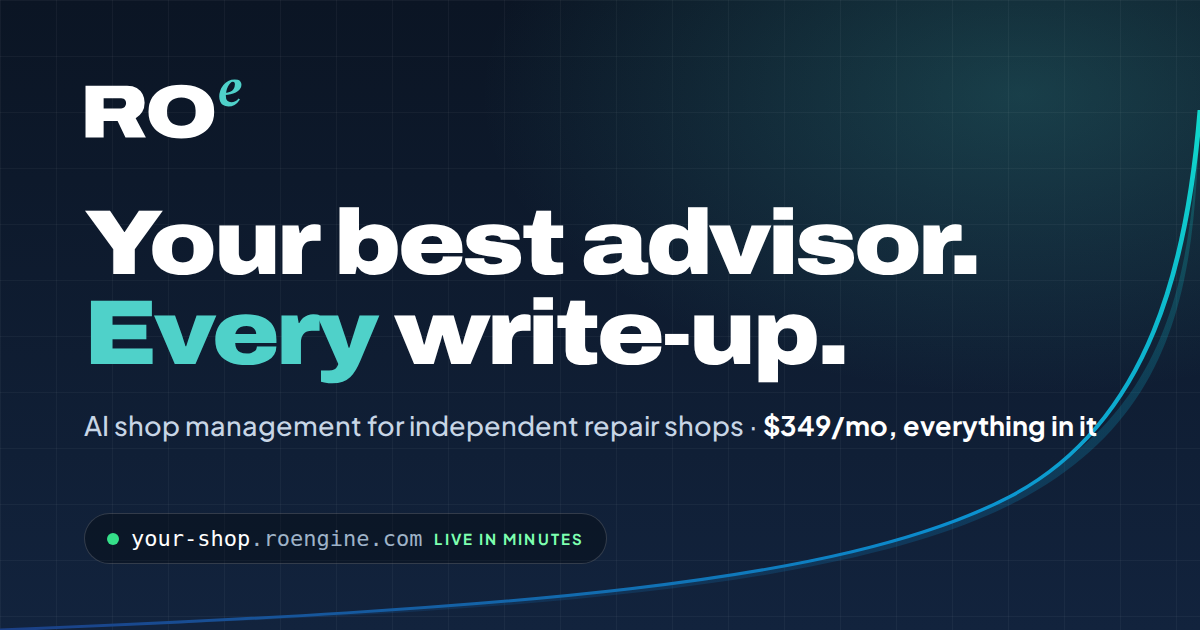
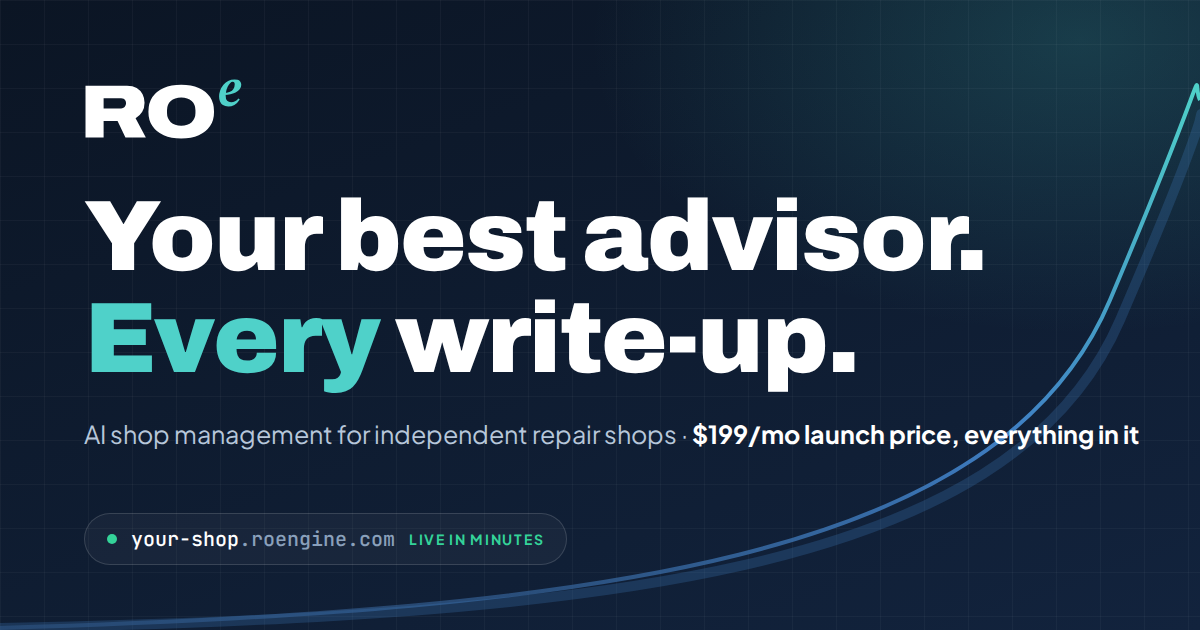
Launch price: $199/month locked in (regular $349), no card needed to start
Replaces the founding 25%-off / July 1, 2027 copy on the homepage, compare, card-fees, llms.txt and JSON-LD;
the compare table now reads $199 launch price. Card-required lines updated for the card-free signup; privacy
notes the optional welcome-page answers. New link-preview image (source in ops/og-image.html, not deployed),
og:image cache-busted with ?v=2.

Changed region(s): [[0.0617, 0.3016, 0.8325, 0.6333], [0.0, 0.1206, 1.0, 1.0], [0.0925, 0.8143, 0.4933, 0.9048]]

diff --git a/index.html b/index.html
@@ -38,22 +38,22 @@
 </script>
 <meta name="viewport" content="width=device-width, initial-scale=1">
 <title>RO Engine — AI Shop Management Software for Independent Auto Repair Shops</title>
-<meta name="description" content="The estimate that explains itself. RO Engine writes the maintenance on every car and explains each service to your customer — what it is, why it's due now, and what happens if they wait. Shop management for independent repair shops: $349/month, everything included, 90 days free.">
+<meta name="description" content="The estimate that explains itself. RO Engine writes the maintenance on every car and explains each service to your customer — what it is, why it's due now, and what happens if they wait. Shop management for independent repair shops: $199/month launch price, everything included, 90 days free.">
 <link rel="canonical" href="https://roengine.com/">
 <meta name="theme-color" content="#0b1524">
 <meta property="og:type" content="website">
 <meta property="og:site_name" content="RO Engine">
 <meta property="og:url" content="https://roengine.com/">
 <meta property="og:title" content="RO Engine — The estimate that explains itself.">
-<meta property="og:description" content="AI shop management for independent auto repair. Veteran-level recommendations on every RO, AI phone answering, texting and estimate approval — $349/month, everything included. Your own shop, live in minutes.">
-<meta property="og:image" content="https://roengine.com/assets/brand/og-image.png">
+<meta property="og:description" content="AI shop management for independent auto repair. Veteran-level recommendations on every RO, AI phone answering, texting and estimate approval — $199/month launch price, everything included. Your own shop, live in minutes.">
+<meta property="og:image" content="https://roengine.com/assets/brand/og-image.png?v=2">
 <meta property="og:image:width" content="1200">
 <meta property="og:image:height" content="630">
 <meta property="og:image:alt" content="RO Engine — The estimate that explains itself.">
 <meta name="twitter:card" content="summary_large_image">
 <meta name="twitter:title" content="RO Engine — The estimate that explains itself.">
-<meta name="twitter:description" content="AI shop management for independent auto repair. Your own shop, live in minutes. $349/month, everything included.">
-<meta name="twitter:image" content="https://roengine.com/assets/brand/og-image.png">
+<meta name="twitter:description" content="AI shop management for independent auto repair. Your own shop, live in minutes. $199/month launch price, everything included.">
+<meta name="twitter:image" content="https://roengine.com/assets/brand/og-image.png?v=2">
 <link rel="alternate" type="text/plain" title="LLM summary" href="https://roengine.com/llms.txt">
 <link rel="icon" href="/assets/brand/roe-icon.svg" type="image/svg+xml">
 <link rel="apple-touch-icon" href="/assets/brand/roe-icon-180.png">
@@ -680,7 +680,7 @@ src="https://www.facebook.com/tr?id=1693754829035693&ev=PageView&noscript=1"
 
 <div class="strip on-dark">
   <div class="wrap">
-    <div class="s rv"><b data-count="349" data-prefix="$">$349</b><span>a month, everything in it</span></div>
+    <div class="s rv"><b data-count="199" data-prefix="$">$199</b><span>a month at launch, everything in it</span></div>
     <div class="s rv"><b data-count="54823">54,823</b><span>OEM service intervals</span></div>
     <div class="s rv"><b data-count="17200">17,200</b><span>AutoHouse repair orders moved off Shop-Ware, back to 2013</span></div>
     <div class="s rv"><b data-count="90">90</b><span>days free to try it</span></div>
@@ -801,7 +801,7 @@ src="https://www.facebook.com/tr?id=1693754829035693&ev=PageView&noscript=1"
   <div class="wrap">
     <h2 class="rv">Two shops run on it today. Both are mine.</h2>
     <p class="lead rv">AutoHouse Automotive in Northwest Arkansas and AutoHouse Chicago in Wood Dale, Illinois.</p>
-    <p class="lead rv">Founding shops pay <b class="big">$261.75 a month, locked for life</b>, if they join before July 1, 2027. Tell me what's broken and I'll fix it.</p>
+    <p class="lead rv">The launch price is <b class="big">$199 a month, locked in for as long as you stay</b>. Tell me what's broken and I'll fix it.</p>
     <p class="small rv"><a href="#demo" style="color:var(--teal);font-weight:700">Questions first? Ask me directly.</a></p>
     <!-- [JOE: optional reference ask, e.g. "If it earns it, let another shop owner call you." Joe to decide before adding.] -->
     <!-- [TESTIMONIAL: first outside founding shop. Name, shop, city, make focus.] -->
@@ -816,8 +816,8 @@ src="https://www.facebook.com/tr?id=1693754829035693&ev=PageView&noscript=1"
     <p class="lead rv" style="color:#b7c7da;margin-top:16px">No tiers to upgrade into. No per-user fees. No add-on for the phone to answer itself.</p>
     <div class="price-grid">
       <div class="pc rv">
-        <div class="amt"><b>$349</b><span>per month<br>unlimited users · month to month</span></div>
-        <div class="fnd"><b>Founding rate:</b> <b>$261.75 a month</b>, locked for life, for shops that join before July 1, 2027.</div>
+        <div class="amt"><b>$199</b><span>per month<br>unlimited users · month to month</span></div>
+        <div class="fnd"><b>Launch price</b>, locked in for as long as you stay. Regular price $349 a month.</div>
         <ul>
           <li><svg><use href="#i-check"/></svg>AI service recommendations on every RO</li>
           <li><svg><use href="#i-check"/></svg>Mnemos, the AI assistant built on Claude</li>
@@ -835,7 +835,7 @@ src="https://www.facebook.com/tr?id=1693754829035693&ev=PageView&noscript=1"
       </div>
       <div class="promise">
         <div class="rv"><h3>The test drive is the real thing</h3><p>Your own shop at yourshop.roengine.com — not a sandbox. Everything you enter carries forward when you stay.</p></div>
-        <div class="rv"><h3>Nothing charges for 90 days</h3><p>Card or bank account on file to start. Cancel online in a few clicks — there's no one to call.</p></div>
+        <div class="rv"><h3>90 days free, no card</h3><p>No card needed to start. Add one before the trial ends if you're staying; cancel online in a few clicks — there's no one to call.</p></div>
         <div class="rv"><h3>We move your history over</h3><p>Customers, vehicles and repair history, migrated free. Coming off Shop-Ware? We've already done it — for ourselves. <a href="/shop-ware/" style="color:var(--teal-b);font-weight:700">See what comes over</a></p></div>
         <div class="rv"><h3>Leave whenever, with everything</h3><p>Export all your data anytime, from Settings, in a few clicks: customers, vehicles, every repair order and invoice, payments, inspections, messages and inventory as spreadsheets (CSV) or JSON, plus every photo, filed by repair order. No fee, no request, no one to call. It isn't tied to your bill, either: cancel, and you can still sign in and take it all. <a href="https://www.youtube.com/watch?v=KS_asJ9icJo" target="_blank" rel="noopener" style="color:var(--teal-b);font-weight:700;white-space:nowrap">Watch the whole export (1:03)</a></p></div>
         <div class="rv"><h3>No sales calls. Ever.</h3><p>If you want to talk, you ask — and the shop owner who built it answers.</p></div>
@@ -850,12 +850,12 @@ src="https://www.facebook.com/tr?id=1693754829035693&ev=PageView&noscript=1"
   <button class="cmpx" type="button" aria-label="Close the comparison" data-close-cmp>×</button>
     <div class="cmp">
       <h3 id="cmpTitle">Everything in one plan. Here&rsquo;s where it lives elsewhere.</h3>
-      <p class="sub2">Every row in our column comes with the $349 plan. On the others, the same things are spread across higher tiers and add-ons &mdash; straight from their own price lists.</p>
+      <p class="sub2">Every row in our column comes with the one plan. On the others, the same things are spread across higher tiers and add-ons &mdash; straight from their own price lists.</p>
       <div class="scroll">
         <table>
           <thead><tr><th scope="col"><span class="sr-only">Feature</span></th><th scope="col" class="us">RO Engine</th><th scope="col">Tekmetric</th><th scope="col">Shop-Ware</th><th scope="col">Shopmonkey</th><th scope="col">AutoLeap</th><th scope="col">Mitchell 1 SE</th></tr></thead>
           <tbody>
-          <tr><th scope="row">Price, monthly billing</th><td class="us plain">$349 &mdash; everything below</td><td>$199 entry plan</td><td>$279 entry plan</td><td>$239 entry plan</td><td>$199 entry plan</td><td class="x">Not published</td></tr>
+          <tr><th scope="row">Price, monthly billing</th><td class="us plain">$199 launch price &mdash; everything below</td><td>$199 entry plan</td><td>$279 entry plan</td><td>$239 entry plan</td><td>$199 entry plan</td><td class="x">Not published</td></tr>
           <tr><th scope="row">Try it first</th><td class="us">90 days free, in your own live shop</td><td>Demo and self-guided tour; no free trial</td><td>15-minute demo</td><td>Demo; trial terms not published</td><td>Demo only; no free trial</td><td>Free demo</td></tr>
           <tr><th scope="row">AI phone answering</th><td class="us">300 minutes a month</td><td class="x">Not offered</td><td class="x">Not listed</td><td class="x">Not listed</td><td>$99/mo add-on</td><td class="x">Not listed</td></tr>
           <tr><th scope="row">Two-way texting</th><td class="us">1,500 texts a month</td><td>Scale plan, $439</td><td class="y">Limited; unlimited on Pro, $389</td><td class="y">Included</td><td>Pro plan, $349</td><td>$39/mo add-on</td></tr>
@@ -883,7 +883,7 @@ src="https://www.facebook.com/tr?id=1693754829035693&ev=PageView&noscript=1"
       <div>
         <div class="rsteps" id="rsteps">
           <div class="rs rv" data-rs="0"><span class="num">1</span><div><h3>Pick your shop's address</h3><p>Choose your name and get your own <code>yourshop.roengine.com</code> — checked and reserved on the spot.</p></div></div>
-          <div class="rs rv" data-rs="1"><span class="num">2</span><div><h3>Start your 90 days</h3><p>Card or bank account on file. Nothing charges for 90 days, and you can cancel online in a few clicks.</p></div></div>
+          <div class="rs rv" data-rs="1"><span class="num">2</span><div><h3>Start your 90 days</h3><p>No card needed. Nothing charges for 90 days, and you can cancel online in a few clicks.</p></div></div>
           <div class="rs rv" data-rs="2"><span class="num">3</span><div><h3>Check your email — you're in</h3><p>"Your RO Engine shop is ready." Set your password and a short setup walks you through hours, labor rates, your team and payments. Skip anything you want.</p></div></div>
         </div>
         <ul class="realfacts rv">
@@ -934,7 +934,7 @@ src="https://www.facebook.com/tr?id=1693754829035693&ev=PageView&noscript=1"
 <section class="everything" id="features">
   <div class="wrap">
     <h2 class="rv">Everything else you'd expect.</h2>
-    <ul class="all rv" aria-label="Everything in the $349 plan">
+    <ul class="all rv" aria-label="Everything in the plan">
         <li>Estimates that explain themselves</li>
         <li>AI phone answering</li>
         <li>Two-way texting</li>
@@ -1088,12 +1088,12 @@ src="https://www.facebook.com/tr?id=1693754829035693&ev=PageView&noscript=1"
   <div class="wrap">
     <div class="cmp rv">
       <h3>Everything in one plan. Here&rsquo;s where it lives elsewhere.</h3>
-      <p class="sub2">Every row in our column comes with the $349 plan. On the others, the same things are spread across higher tiers and add-ons &mdash; straight from their own price lists.</p>
+      <p class="sub2">Every row in our column comes with the one plan. On the others, the same things are spread across higher tiers and add-ons &mdash; straight from their own price lists.</p>
       <div class="scroll">
         <table>
           <thead><tr><th scope="col"><span class="sr-only">Feature</span></th><th scope="col" class="us">RO Engine</th><th scope="col">Tekmetric</th><th scope="col">Shop-Ware</th><th scope="col">Shopmonkey</th><th scope="col">AutoLeap</th><th scope="col">Mitchell 1 SE</th></tr></thead>
           <tbody>
-          <tr><th scope="row">Price, monthly billing</th><td class="us plain">$349 &mdash; everything below</td><td>$199 entry plan</td><td>$279 entry plan</td><td>$239 entry plan</td><td>$199 entry plan</td><td class="x">Not published</td></tr>
+          <tr><th scope="row">Price, monthly billing</th><td class="us plain">$199 launch price &mdash; everything below</td><td>$199 entry plan</td><td>$279 entry plan</td><td>$239 entry plan</td><td>$199 entry plan</td><td class="x">Not published</td></tr>
           <tr><th scope="row">Try it first</th><td class="us">90 days free, in your own live shop</td><td>Demo and self-guided tour; no free trial</td><td>15-minute demo</td><td>Demo; trial terms not published</td><td>Demo only; no free trial</td><td>Free demo</td></tr>
           <tr><th scope="row">Factory maintenance schedules</th><td class="us">On every RO</td><td>Grow plan, $349</td><td class="y">Maintenance Builder</td><td class="x">Not clearly listed</td><td>Pro plan, $349</td><td class="x">Not listed</td></tr>
           <tr><th scope="row">AI phone answering</th><td class="us">300 minutes a month</td><td class="x">Not offered</td><td class="x">Not listed</td><td class="x">Not listed</td><td>$99/mo add-on</td><td class="x">Not listed</td></tr>
@@ -1330,9 +1330,9 @@ document.querySelectorAll('.vid .play').forEach((b) => b.addEventListener('click
      "applicationCategory":"BusinessApplication","applicationSubCategory":"Auto repair shop management software",
      "operatingSystem":"Web","publisher":{"@id":"https://roengine.com/#org"},
      "description":"AI shop management software for independent auto repair shops. Surfaces overdue and deferred maintenance on every repair order from 54,000+ OEM service intervals, with AI phone answering, two-way texting, digital estimate approval, parts ordering and inspections included.",
-     "offers":{"@type":"Offer","price":"349.00","priceCurrency":"USD","availability":"https://schema.org/InStock",
-       "priceSpecification":{"@type":"UnitPriceSpecification","price":"349.00","priceCurrency":"USD","unitText":"MONTH"},
-       "description":"One plan, everything included, unlimited users, month to month. 90-day free trial. Founding shops that join before July 1, 2027 pay $261.75/month for as long as they stay."}},
+     "offers":{"@type":"Offer","price":"199.00","priceCurrency":"USD","availability":"https://schema.org/InStock",
+       "priceSpecification":{"@type":"UnitPriceSpecification","price":"199.00","priceCurrency":"USD","unitText":"MONTH"},
+       "description":"One plan, everything included, unlimited users, month to month. 90-day free trial, no card needed. Launch price $199/month, locked in for as long as the shop stays; regular price $349/month."}},
     {"@type":"VideoObject","name":"The estimate that explains itself.","description":"The customer taps their car and reads what each service is, why it's due now, and what happens if they wait. The advisor reviews it first.","thumbnailUrl":"https://roengine.com/assets/video/estimate-explains.jpg",
      "uploadDate":"2026-10-16","duration":"PT47S","embedUrl":"https://www.youtube-nocookie.com/embed/QaQ2TSoMyiU","contentUrl":"https://www.youtube.com/watch?v=QaQ2TSoMyiU","publisher":{"@id":"https://roengine.com/#org"}},
     {"@type":"VideoObject","name":"Show them what you found.","description":"The tech marks the brake pads red, with the photo and the gauge reading. The customer sees exactly that on their phone and approves it.","thumbnailUrl":"https://roengine.com/assets/video/red-finding.jpg",

diff --git a/ops/og-image.html b/ops/og-image.html
@@ -1,0 +1,32 @@
+<!doctype html>
+<!-- Source for assets/brand/og-image.png (1200x630 link preview). Not deployed (ops/ is outside .cpanel.yml's copies
+     except lead-retention.php). Rebuild: render this file at 1200x630 with headless Chromium and screenshot it, e.g.
+     node -e "…page.setViewportSize({width:1200,height:630}); page.goto('file://…/ops/og-image.html'); page.screenshot(…)" -->
+<html><head><meta charset="utf-8">
+<link href="https://fonts.googleapis.com/css2?family=Archivo:wdth,wght@62..125,500..900&family=Plus+Jakarta+Sans:wght@400;500;600;700&family=JetBrains+Mono:wght@500&display=swap" rel="stylesheet">
+<style>
+html,body{margin:0;width:1200px;height:630px;overflow:hidden}
+body{position:relative;background:radial-gradient(700px 420px at 1080px 40px,rgba(63,181,174,.22),transparent 70%),linear-gradient(160deg,#0b1524 0%,#12233d 100%);font-family:'Plus Jakarta Sans',sans-serif;color:#fff}
+.grid{position:absolute;inset:0;background-image:linear-gradient(rgba(255,255,255,.035) 1px,transparent 1px),linear-gradient(90deg,rgba(255,255,255,.035) 1px,transparent 1px);background-size:44px 44px}
+.logo{position:absolute;left:84px;top:78px;height:62px}
+.logo svg{height:62px;width:auto}
+h1{position:absolute;left:84px;top:186px;margin:0;font-family:'Archivo',sans-serif;font-weight:900;font-size:100px;line-height:1.02;letter-spacing:-.02em}
+h1 .t{color:#4fd1c9}
+.sub{position:absolute;left:84px;top:418px;font-size:25px;color:#b7c7da}
+.sub b{color:#fff;font-weight:700}
+.pill{position:absolute;left:84px;top:513px;display:flex;align-items:center;gap:14px;padding:12px 22px;border:1px solid rgba(255,255,255,.14);border-radius:999px;background:rgba(255,255,255,.04);font-family:'JetBrains Mono',monospace;font-size:20px;color:#fff}
+.pill .dot{width:10px;height:10px;border-radius:50%;background:#34d399}
+.pill .d{color:#8aa0bb}
+.pill .live{font-family:'Plus Jakarta Sans';font-weight:700;font-size:14px;letter-spacing:.12em;color:#34d399}
+svg.curve{position:absolute;inset:0}
+</style></head><body>
+<div class="grid"></div>
+<svg class="curve" viewBox="0 0 1200 630" width="1200" height="630"><defs><linearGradient id="g" x1="0" y1="1" x2="1" y2="0"><stop offset="0" stop-color="#2d4d78" stop-opacity=".5"/><stop offset=".6" stop-color="#3f7fc4"/><stop offset="1" stop-color="#4fd1c9"/></linearGradient></defs>
+<path d="M0 628 C 600 610, 1000 560, 1110 300 S 1190 80, 1200 100" fill="none" stroke="url(#g)" stroke-width="4"/>
+<path d="M0 628 C 600 616, 1010 575, 1120 320 S 1195 110, 1200 130" fill="none" stroke="#3f7fc4" stroke-opacity=".25" stroke-width="10"/></svg>
+<div class="logo"><svg xmlns="http://www.w3.org/2000/svg" viewBox="54 145 2103 821" role="img" aria-label="RO Engine"><path fill="#ffffff" d="M74.0 934.0V246.0H623.795166015625Q700.795166015625 246.0 752.295166015625 277.719970703125Q803.795166015625 309.43994140625 829.795166015625 360.8798828125Q855.795166015625 412.31982421875 855.795166015625 471.759765625Q855.795166015625 539.919677734375 825.1551513671875 592.859619140625Q794.51513671875 645.799560546875 737.1953125 677.51953125L872.915283203125 934.0H602.59619140625L498.316162109375 714.51953125H313.71923828125V934.0ZM313.71923828125 548.56005859375H545.756103515625Q573.196044921875 548.56005859375 591.916015625 530.219970703125Q610.635986328125 511.8798828125 610.635986328125 480.039794921875Q610.635986328125 459.039794921875 601.916015625 444.1197509765625Q593.196044921875 429.19970703125 578.8360595703125 421.1396484375Q564.47607421875 413.07958984375 545.756103515625 413.07958984375H313.71923828125Z M1341.068269220645 946.0Q1207.4157932003875 946.0 1109.8475450376936 903.840087890625Q1012.279296875 861.68017578125 959.6396484375 782.18017578125Q907.0 702.68017578125 907.0 590.3405670545902Q907.0 477.039794921875 959.6396484375 397.31982421875Q1012.279296875 317.599853515625 1109.8475450376936 275.7999267578125Q1207.4157932003875 234.0 1341.068269220645 234.0Q1476.63671875 234.0 1573.6761474609375 275.7999267578125Q1670.715576171875 317.599853515625 1723.355224609375 397.31982421875Q1775.994873046875 477.039794921875 1775.994873046875 590.3405670545902Q1775.994873046875 702.68017578125 1723.355224609375 782.18017578125Q1670.715576171875 861.68017578125 1573.6761474609375 903.840087890625Q1476.63671875 946.0 1341.068269220645 946.0ZM1341.357421875 776.68017578125Q1385.277099609375 776.68017578125 1420.3367919921875 764.460205078125Q1455.396484375 752.240234375 1480.0162353515625 729.4403076171875Q1504.635986328125 706.640380859375 1517.23583984375 675.2804565429688Q1529.835693359375 643.9205322265625 1529.835693359375 606.880615234375V571.679443359375Q1529.835693359375 534.7858217840326 1517.23583984375 503.7127351107663Q1504.635986328125 472.6396484375 1480.0162353515625 450.19970703125Q1455.396484375 427.759765625 1420.3367919921875 415.539794921875Q1385.277099609375 403.31982421875 1341.357421875 403.31982421875Q1297.437744140625 403.31982421875 1262.3780517578125 415.539794921875Q1227.318359375 427.759765625 1202.838623046875 450.19970703125Q1178.35888671875 472.6396484375 1165.759033203125 503.7127351107663Q1153.1591796875 534.7858217840326 1153.1591796875 571.679443359375V606.880615234375Q1153.1591796875 643.9205322265625 1165.759033203125 675.2804565429688Q1178.35888671875 706.640380859375 1202.838623046875 729.4403076171875Q1227.318359375 752.240234375 1262.3780517578125 764.460205078125Q1297.437744140625 776.68017578125 1341.357421875 776.68017578125Z"/><path fill="#4fd1c9" d="M1964.97712890625 521.04423828125Q1920.82966796875 521.04423828125 1893.924326171875 503.13898437500006Q1867.018984375 485.23373046875 1854.8926269531248 455.52423828125006Q1842.76626953125 425.81474609375005 1842.76626953125 390.04203125000004Q1842.76626953125 348.88830078125 1856.863134765625 308.92830078125Q1870.96 268.96830078125004 1897.7137304687499 236.26516601562503Q1924.4674609375 203.56203125000002 1962.3433105468748 184.17889648437503Q2000.21916015625 164.79576171875004 2047.77712890625 164.79576171875004Q2067.25509765625 164.79576171875004 2087.62357421875 169.79788085937503Q2107.99205078125 174.8 2122.3162890625 189.7494921875Q2136.64052734375 204.698984375 2136.64052734375 234.59796875Q2136.64052734375 270.0674609375 2115.4384082031247 295.13483398437506Q2094.2362890625 320.20220703125005 2061.154169921875 336.04220703125003Q2028.07205078125 351.88220703125 1991.484677734375 359.934833984375Q1954.8973046875 367.98746093750003 1924.126796875 370.1474609375V344.26525390625Q1959.06560546875 342.82525390625005 1987.3160253906249 328.65262695312504Q2015.5664453125 314.48 2032.63796875 289.8294921875Q2049.7094921875 265.178984375 2049.7094921875 232.17271484375004Q2049.7094921875 215.00644531250003 2044.006357421875 205.60856445312504Q2038.30322265625 196.21068359375005 2024.47169921875 196.21068359375005Q2005.25916015625 196.21068359375005 1988.149755859375 213.24432617187503Q1971.0403515625 230.27796875 1958.0614550781252 257.618984375Q1945.08255859375 284.96000000000004 1937.579423828125 317.0Q1930.0762890625 349.04 1930.0762890625 379.05271484375004Q1930.0762890625 428.7705078125 1949.838408203125 446.884150390625Q1969.60052734375 464.99779296875 2001.96255859375 464.99779296875Q2030.686796875 464.99779296875 2054.2573046875 453.1935546875Q2077.8278125 441.38931640625003 2098.7078125 415.46931640625L2116.67001953125 429.90728515625005Q2084.724765625 480.87576171875 2045.54154296875 500.96000000000004Q2006.3583203125 521.04423828125 1964.97712890625 521.04423828125Z"/></svg>
+</div>
+<h1>Your best advisor.<br><span class="t">Every</span> write-up.</h1>
+<div class="sub">AI shop management for independent repair shops · <b>$199/mo launch price, everything in it</b></div>
+<div class="pill"><span class="dot"></span><span>your-shop<span class="d">.roengine.com</span></span><span class="live">LIVE IN MINUTES</span></div>
+</body></html>

diff --git a/compare/index.html b/compare/index.html
@@ -44,16 +44,16 @@
 <meta property="og:type" content="website">
 <meta property="og:site_name" content="RO Engine">
 <meta property="og:url" content="https://roengine.com/compare/">
-<meta property="og:title" content="RO Engine vs the other shop systems — everything in one $349 plan">
-<meta property="og:description" content="AI shop management for independent auto repair. Veteran-level recommendations on every RO, AI phone answering, texting and estimate approval — $349/month, everything included. Your own shop, live in minutes.">
-<meta property="og:image" content="https://roengine.com/assets/brand/og-image.png">
+<meta property="og:title" content="RO Engine vs the other shop systems — everything in one $199 plan">
+<meta property="og:description" content="AI shop management for independent auto repair. Veteran-level recommendations on every RO, AI phone answering, texting and estimate approval — $199/month launch price, everything included. Your own shop, live in minutes.">
+<meta property="og:image" content="https://roengine.com/assets/brand/og-image.png?v=2">
 <meta property="og:image:width" content="1200">
 <meta property="og:image:height" content="630">
 <meta property="og:image:alt" content="RO Engine — Your best advisor. Every write-up.">
 <meta name="twitter:card" content="summary_large_image">
 <meta name="twitter:title" content="RO Engine — Your best advisor. Every write-up.">
-<meta name="twitter:description" content="AI shop management for independent auto repair. Your own shop, live in minutes. $349/month, everything included.">
-<meta name="twitter:image" content="https://roengine.com/assets/brand/og-image.png">
+<meta name="twitter:description" content="AI shop management for independent auto repair. Your own shop, live in minutes. $199/month launch price, everything included.">
+<meta name="twitter:image" content="https://roengine.com/assets/brand/og-image.png?v=2">
 <link rel="alternate" type="text/plain" title="LLM summary" href="https://roengine.com/llms.txt">
 <link rel="icon" href="/assets/brand/roe-icon.svg" type="image/svg+xml">
 <link rel="apple-touch-icon" href="/assets/brand/roe-icon-180.png">
@@ -565,7 +565,7 @@ src="https://www.facebook.com/tr?id=1693754829035693&ev=PageView&noscript=1"
   <div class="wrap">
     <div class="eyebrow">Shop software compared</div>
     <h1>One plan with everything in it. <span class="hl">Here's where it lives elsewhere.</span></h1>
-    <p class="sub">RO Engine is <b>$349 a month, everything included</b>: unlimited users, the AI phone, texting, online booking and factory maintenance schedules on every repair order. On the others, the same things are spread across higher tiers and add-ons. Every cell below comes from that company's own pricing page.</p>
+    <p class="sub">RO Engine is <b>$199 a month at launch, everything included</b>: unlimited users, the AI phone, texting, online booking and factory maintenance schedules on every repair order. On the others, the same things are spread across higher tiers and add-ons. Every cell below comes from that company's own pricing page.</p>
     <div class="ctas">
       <a class="btn btn-p" href="https://app.roengine.com/signup">Set up my shop — free for 90 days <svg><use href="#i-arrow"/></svg></a>
       <a class="btn btn-g" href="/#why">See what makes it different</a>
@@ -577,12 +577,12 @@ src="https://www.facebook.com/tr?id=1693754829035693&ev=PageView&noscript=1"
   <div class="wrap">
     <div class="cmp">
       <h3>Feature by feature</h3>
-      <p class="sub2">Every row in our column comes with the $349 plan. On the others, the same things are spread across higher tiers and add-ons &mdash; straight from their own price lists.</p>
+      <p class="sub2">Every row in our column comes with the one plan. On the others, the same things are spread across higher tiers and add-ons &mdash; straight from their own price lists.</p>
       <div class="scroll">
         <table>
           <thead><tr><th scope="col"><span class="sr-only">Feature</span></th><th scope="col" class="us">RO Engine</th><th scope="col">Tekmetric</th><th scope="col">Shop-Ware</th><th scope="col">Shopmonkey</th><th scope="col">AutoLeap</th><th scope="col">Mitchell 1 SE</th></tr></thead>
           <tbody>
-          <tr><th scope="row">Price, monthly billing</th><td class="us plain">$349 &mdash; everything below</td><td>$199 entry plan</td><td>$279 entry plan</td><td>$239 entry plan</td><td>$199 entry plan</td><td class="x">Not published</td></tr>
+          <tr><th scope="row">Price, monthly billing</th><td class="us plain">$199 launch price &mdash; everything below</td><td>$199 entry plan</td><td>$279 entry plan</td><td>$239 entry plan</td><td>$199 entry plan</td><td class="x">Not published</td></tr>
           <tr><th scope="row">Try it first</th><td class="us">90 days free, in your own live shop</td><td>Demo and self-guided tour; no free trial</td><td>15-minute demo</td><td>Demo; trial terms not published</td><td>Demo only; no free trial</td><td>Free demo</td></tr>
           <tr><th scope="row">AI phone answering</th><td class="us">300 minutes a month</td><td class="x">Not offered</td><td class="x">Not listed</td><td class="x">Not listed</td><td>$99/mo add-on</td><td class="x">Not listed</td></tr>
           <tr><th scope="row">Two-way texting</th><td class="us">1,500 texts a month</td><td>Scale plan, $439</td><td class="y">Limited; unlimited on Pro, $389</td><td class="y">Included</td><td>Pro plan, $349</td><td>$39/mo add-on</td></tr>

diff --git a/card-fees/index.html b/card-fees/index.html
@@ -284,13 +284,13 @@ src="https://www.facebook.com/tr?id=1693754829035693&ev=PageView&noscript=1"
 
   <section>
     <h2>Where RO Engine stands</h2>
-    <p>RO Engine doesn't take a cut of your card processing. Our revenue is the subscription: $349 a month, flat &mdash; no tiers, unlimited users, everything on from day one, including 300 AI phone minutes, 300 calls and 1,500 texts. Which processor you use, and what you pay it, is between you and your processor.</p>
+    <p>RO Engine doesn't take a cut of your card processing. Our revenue is the subscription: $199 a month at launch, locked in (regular price $349), flat &mdash; no tiers, unlimited users, everything on from day one, including 300 AI phone minutes, 300 calls and 1,500 texts. Which processor you use, and what you pay it, is between you and your processor.</p>
     <p>We built RO Engine's AI service-recommendation engine because we run a real repair shop and needed it ourselves first. That's the pitch. Your card volume isn't part of it.</p>
   </section>
 
   <div class="cta">
-    <h3>90-Day Free Trial. 25% Off For Founding Shops.</h3>
-    <p>Join before July 1, 2027 and your rate locks at $261.75/month for as long as you stay &mdash; down from $349/month standard. No tiers, no contracts, unlimited users.</p>
+    <h3>90-Day Free Trial. $199 Launch Price.</h3>
+    <p>Your rate locks at $199/month for as long as you stay &mdash; regular price $349/month. No tiers, no contracts, unlimited users.</p>
     <a class="btn" href="https://app.roengine.com/signup">Start Your Free Trial &rarr;</a>
     <div class="fine">No contract. No cut of your card processing. No per-user fees.</div>
   </div>

diff --git a/privacy/index.html b/privacy/index.html
@@ -100,8 +100,8 @@ IP address, browser and the page you came from.</p>
 don't keep them. If you ask us to email you the result, or to tell you when your car is covered, we keep your email
 address, the car (year, make and model) and the link, and use them only for that email and to follow up about RO Engine.</p>
 <h3>When you sign up</h3>
-<p>Your name and email, your shop's name, web address, phone, city and state, and the optional answers you give
-(current software, how you heard about us, bays, technicians). If the <code>re_attr</code> cookie is present, we save
+<p>Your name and email and your shop's name and web address; then, if you give them on the welcome page, your phone,
+city and state and the optional answers (current software, how you heard about us, bays, technicians). If the <code>re_attr</code> cookie is present, we save
 its tags with your signup. <b>Payment details go directly to Stripe</b>, which processes them for us; we never see or
 store your full card or bank account number. To keep automated signups out, the signup form runs Cloudflare
 Turnstile, which checks your browser (including your IP address) for signs of a bot. We also use <b>PostHog</b> to

diff --git a/shop-ware/index.html b/shop-ware/index.html
@@ -46,7 +46,7 @@
 <meta property="og:url" content="https://roengine.com/shop-ware/">
 <meta property="og:title" content="Moving off Shop-Ware? We'll move your history free.">
 <meta property="og:description" content="We moved 17,200 repair orders and 40,900 photos off Shop-Ware for our own shop. Same importer, your data, no charge.">
-<meta property="og:image" content="https://roengine.com/assets/brand/og-image.png">
+<meta property="og:image" content="https://roengine.com/assets/brand/og-image.png?v=2">
 <meta name="twitter:card" content="summary_large_image">
 <link rel="icon" href="/assets/brand/roe-icon.svg" type="image/svg+xml">
 <link rel="apple-touch-icon" href="/assets/brand/roe-icon-180.png">

diff --git a/try/index.html b/try/index.html
@@ -46,7 +46,7 @@
 <meta property="og:url" content="https://roengine.com/try/">
 <meta property="og:title" content="Try it on your VIN — the estimate that explains itself">
 <meta property="og:description" content="A VIN and the mileage in. What's due from the factory schedule out, explained for the customer. No signup.">
-<meta property="og:image" content="https://roengine.com/assets/brand/og-image.png">
+<meta property="og:image" content="https://roengine.com/assets/brand/og-image.png?v=2">
 <meta name="twitter:card" content="summary_large_image">
 <link rel="icon" href="/assets/brand/roe-icon.svg" type="image/svg+xml">
 <link rel="apple-touch-icon" href="/assets/brand/roe-icon-180.png">
